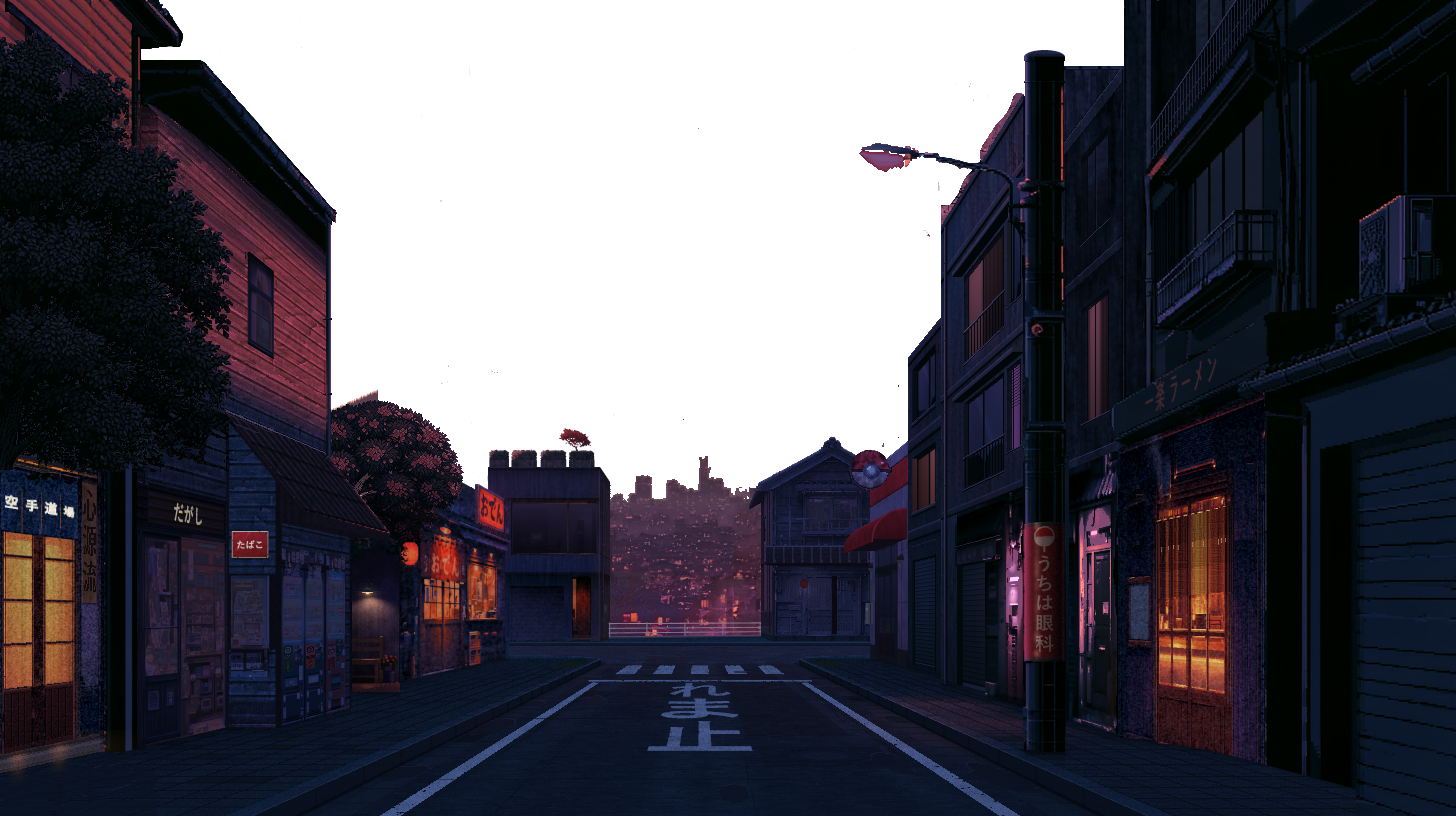
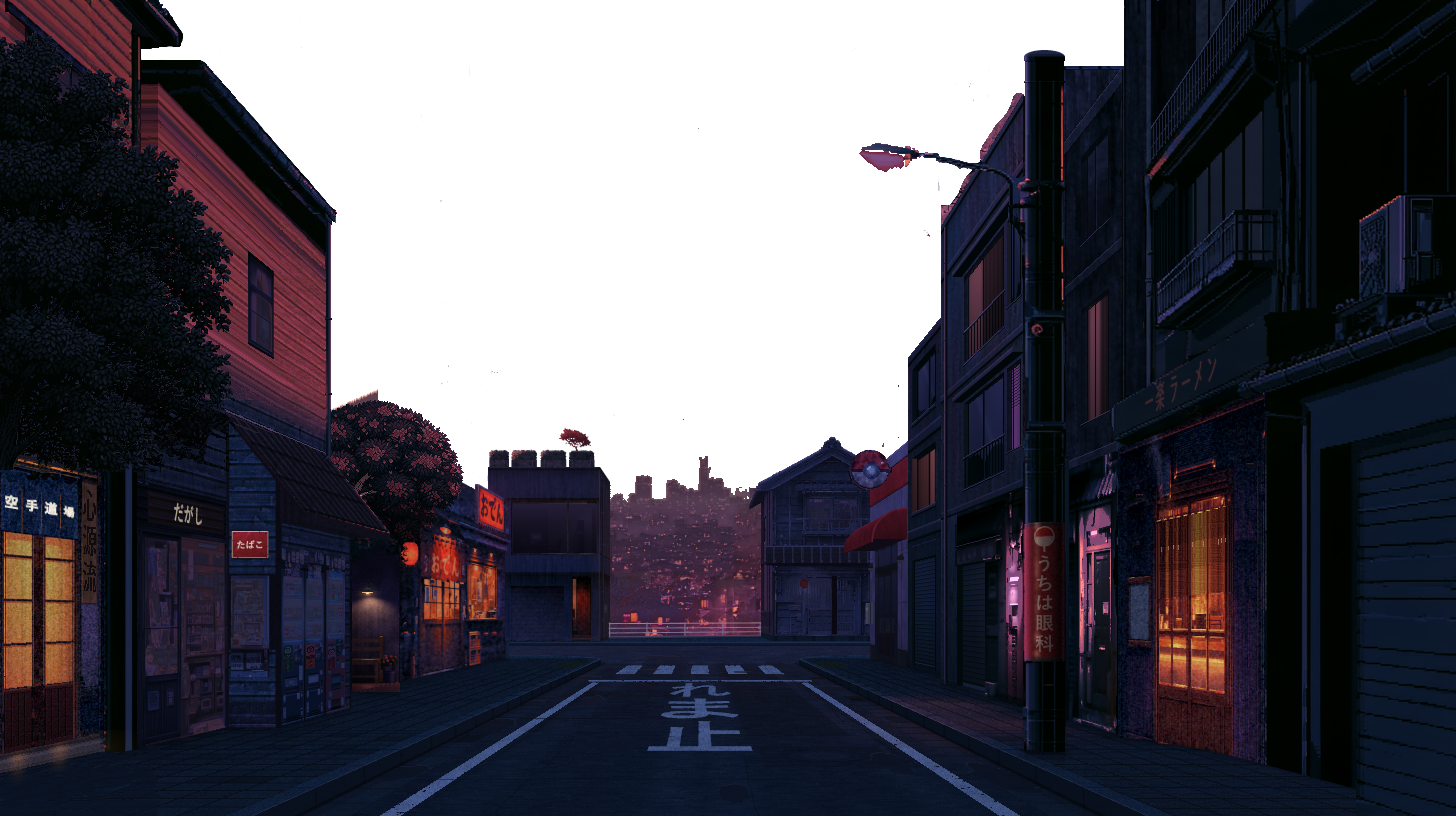
fix(street): redo Kirua facade in a single perspective
Redo Kirua's facade in one perspective (that of its gutter and the
painter's planks), up to the gutter with no black triangle; flat gable
at the facade's depth; floating leaf tuft removed.

Changed region(s): [[0.0927, 0.0919, 0.2473, 0.4902]]

diff --git a/tools/kirua_house_side.py b/tools/kirua_house_side.py
@@ -1,23 +1,28 @@
 #!/usr/bin/env python3
-"""Between the dojo's house and Kirua's: their shared downpipe back, Kirua's house's end wall, its boards cleaned.
+"""Between the dojo's house and Kirua's: their shared downpipe back, Kirua's house's end wall, its front in one perspective.
 
-    python3 tools/kirua_house_side.py      (after tools/dojo_window.py; it takes its zone back from commit BEFORE each time,
-                                            so it can be run again)
+    python3 tools/kirua_house_side.py      (after tools/dojo_window.py; it takes its zones back from commit BEFORE each
+                                            time, so it can be run again)
 
 The painter had, where the two houses meet, the dojo's house's corner in shadow (x 130..136) and the downpipe both roofs
 drain into (x 137..140, from under the upper eave); boards redrawn over the wall had covered them (they ran out into the
 sky between the two roofs). They are his again (JUNCTION, from OLD), in each layer, the new tree's leaves still in front.
 
-Kirua's house stands out from the dojo's toward the street, its roof's end square to us: under that end its end wall
-shows (SIDE, x 141..157), its front corner at x 158. Its boards are the front's, round the corner: each row the board
-that meets the corner there, its grain the front's along that board (mirrored across the corner), horizontal since that
-wall faces us; in the shade, the sunset being down the street (darkest in the inner corner, lighter toward the front
-corner, and under the roof's end), and no sunset on it (street_sun 0).
+Kirua's front runs to its own vanishing point (FVP: where its eave and the painter's own boards right of the small window
+meet, a little under the street's). Left of that window its boards had been redrawn toward the street's (VP), across
+his: they are his again, each pixel the painter's board on its own ray to FVP, taken from his boards right of the window
+(SRC_X, his stains of old foliage taken off first: a pixel much darker or lighter than the median along its ray nearby
+takes that median), the board a whole number of boards over (FRONT_DTHETA) where its ray finds none. The front goes up
+to under the eave (FRONT_TOP, the owner's line, on a ray to FVP, so the dark band under the gutter keeps one width):
+where the eave's shadow had left a black wedge, the boards a whole number of boards below, the same shift all along
+(a little darker against the eave). Leaves that the black hid, alone in the air over the crown, go with it.
 
-Its front, by the small window (BLOTCH): the old foliage's shadows had left dark stains and a black bar on the boards
-(they run on the rays to the street's vanishing point VP, each the same board all along its ray). A pixel much darker than
-its own board nearby, or much lighter (the median along its ray, within REACH columns, the window and the leaves left
-out) takes that median, in each layer. In layer_city_off, street_unlit, night_far (0, the street's) and street_sun. Needs git, Pillow, numpy.
+Under its roof's end its end wall shows (SIDE, x 141..157, from SIDE_TOP), its front corner at x 158, as deep as its
+front: its boards the front's, round the corner (each row the board that meets the corner there, its grain the front's
+along that board, mirrored across the corner, horizontal since that wall faces us), one shade all over (the sunset being
+down the street), no sunset on it (street_sun 0). Each pixel taken in each layer from the same place (street_unlit,
+street_sun: so the power cut and the hours read it as the boards it comes from); night_far 0 (the street's). Needs git,
+Pillow, numpy.
 """
 import io
 import os
@@ -29,16 +34,23 @@ ROOT = os.path.dirname(os.path.dirname(os.path.abspath(__file__)))
 A = lambda p: os.path.join(ROOT, 'assets', p)
 OLD, TREE = '8d4ca3c^', '8d4ca3c'    # (the painter's, before the tree in front of the dojo was changed; the tree's change)
 BEFORE = 'acfeeca'                   # (the layers before this tool: its zones taken back from there each run)
-ZONE = (100, 0, 340, 430)            # x0, y0, x1, y1: where the crown is found
+ZONE = (100, 0, 340, 440)            # x0, y0, x1, y1: where the crown is found, and this tool's zone
 JUNCTION = (129, 30, 141, 330)       # x0, y0, x1, y1: the painter's corner shadow and shared downpipe, his pixels again
 SIDE = (141, 158)                    # Kirua's house's end wall: its columns; its front corner at the second
-SIDE_FOOT = 430                      # (as far down as it goes, behind the tree)
-SHADE = (0.50, 0.68, 0.72, 6)        # its shade: in the inner corner, at the front corner; under the roof's end, over that many rows
-BLOTCH = (186, 182, 322, 300)        # x0, y0, x1, y1: the front's stained boards by the small window
-WINDOW = (245, 252, 277, 358)        # (the small window and its frame, left out)
-REACH, OFF, PASSES = 14, 0.16, 2                # (its board nearby: this many columns either way; a stain: darker or lighter than it by this)
+SIDE_TOP, SIDE_FOOT = 84, 430        # (from under its roof's end, as far down as it goes behind the tree)
+SIDE_F = 0.66                        # its shade: one tone all over (a flat wall, as deep as the front)
+FVP = (718.0, 669.0)                 # Kirua's front's vanishing point (its eave's and the painter's boards')
+FRONT_TOP = (162, 86)                # its front's top, under the eave: the ray to FVP through this point (the owner's line)
+FRONT_X = (158, 325)                 # (its columns, the downpipe past them)
+SRC_X = (278, 325)                   # the painter's own boards, right of the small window
+FRONT_FOOT = 430                     # (as far down as its front is rebuilt, behind the tree)
+FRONT_DTHETA = 0.0171                # its boards' spacing seen from FVP (rad)
+EAVE_SHADE = (0.72, 3)               # (the eave's shadow on its top: this dark against the eave, gone over that many rows)
+WINDOW = (246, 250, 278, 360)        # (the small window's box: its frame and glass in it left as they are)
+REACH, OFF, PASSES = 14, 0.16, 2     # (a stain: darker or lighter by this than the median along its ray, this many columns either way)
+TUFT, CLEAR = 800, 135               # (a tuft of leaves alone in the air: fewer pixels than this, over this row)
+STAIN_Y = 400                        # (black stains on the front taken off above this row: the awning's roof below)
 LEAF = 45
-VP = (725.0, 625.0)
 LUM = np.array([0.299, 0.587, 0.114])
 
 
@@ -51,8 +63,8 @@ def save(arr, p, mode):
     Image.fromarray(np.clip(np.round(arr), 0, 255).astype(np.uint8), mode).save(A(p), 'WEBP', lossless=True, quality=100, method=6, exact=True)
 
 
-def ray(y, x_from, x_to):
-    return VP[1] + (y - VP[1]) * (VP[0] - x_to) / (VP[0] - x_from)
+def fray(y, x_from, x_to):                                                   # (the row at x_to of the ray to FVP through (x_from, y))
+    return FVP[1] + (y - FVP[1]) * (FVP[0] - x_to) / (FVP[0] - x_from)
 
 
 def grow(m, n=1):
@@ -72,21 +84,26 @@ def flood(ok, seeds):
 
 def main():
     names = (('layer_city_off.webp', 'RGBA'), ('street_unlit.webp', 'RGBA'), ('night_far.webp', 'RGB'), ('street_sun.webp', 'RGB'))
-    L = [load(n, m) for n, m in names]; O = [load(n, m, OLD) for n, m in names]
-    B = [load(n, m, BEFORE) for n, m in names]
-    for bx in ((SIDE[0], 0, SIDE[1], SIDE_FOOT), BLOTCH):                   # (this tool's zones as they were before it)
-        for l, b in zip(L, B): l[bx[1]:bx[3], bx[0]:bx[2]] = b[bx[1]:bx[3], bx[0]:bx[2]]
+    L = [load(n, m) for n, m in names]; O = [load(n, m, OLD) for n, m in names]; B = [load(n, m, BEFORE) for n, m in names]
+    x0, y0, x1, y1 = ZONE
+    for l, b in zip(L, B): l[y0:y1, SIDE[0]:x1] = b[y0:y1, SIDE[0]:x1]       # (this tool's zone as it was before it)
     city = L[0]; H, W = city.shape[:2]
 
     # the new tree's leaves (the dark pixels its change put there, joined to the crown through runs of three, and the
     # dark ones close to them): they stay in front of everything here
-    x0, y0, x1, y1 = ZONE
     o, t = load('layer_city_off.webp', 'RGBA', OLD)[y0:y1, x0:x1], load('layer_city_off.webp', 'RGBA', TREE)[y0:y1, x0:x1]
     still = np.abs(city[y0:y1, x0:x1] - t).sum(2) == 0
     dark = (np.abs(o - t).sum(2) > 0) & still & (t[..., :3] @ LUM < LEAF)
     core = dark & np.roll(dark, 1, 1) & np.roll(dark, -1, 1)
     leaf = grow(flood(core, [(y1 - y0 - 1, x) for x in range(x1 - x0)])) & dark
     front = np.zeros((H, W), bool); front[y0:y1, x0:x1] = leaf | (grow(leaf, 2) & dark)
+    wx0, wy0, wx1, wy1 = WINDOW                                             # (the small window: its frame and glass, the navy and
+    navy = np.zeros((H, W), bool)                                           # violet joined to its middle, inside its box)
+    navy[wy0:wy1, wx0:wx1] = city[wy0:wy1, wx0:wx1, 2] >= city[wy0:wy1, wx0:wx1, 0] - 4
+    win = flood(navy, [((wy0 + wy1) // 2, (wx0 + wx1) // 2)])
+    box = np.zeros((H, W), bool); box[wy0:wy1, wx0:wx1] = True               # (and whatever its frame encloses: the curtain's
+    out = flood(box & ~win, [(y, x) for y in range(wy0, wy1) for x in (wx0, wx1 - 1)] + [(y, x) for x in range(wx0, wx1) for y in (wy0, wy1 - 1)])
+    win = box & ~out                                                        # light in the glass is the window's)
 
     # the junction: the painter's corner shadow and shared downpipe
     jx0, jy0, jx1, jy1 = JUNCTION
@@ -97,47 +114,99 @@ def main():
             for l, ol in zip(L, O): l[y, x] = ol[y, x]
             n_j += 1
 
-    # Kirua's house's end wall, under its roof's end (the roof's foot over each column: its last dark pixel from the top)
-    sx0, sx1 = SIDE
-    s0, s1, s2, sn = SHADE
-    n_s = 0
-    for x in range(sx0, sx1):
-        top = next(y for y in range(62, 200) if city[y, x, 3] == 255 and city[y, x, 0] > city[y, x, 2] + 2)   # (the first board under it)
-        d = sx1 - x                                                          # (its distance from the front corner)
-        f = s0 + (s1 - s0) * (1 - (d - 1) / (sx1 - sx0 - 1))                 # (darker toward the inner corner)
-        for y in range(top, SIDE_FOOT):
-            if front[y, x]: continue
-            for k in range(d, d + 40):                                       # (its board: the one meeting the corner on this row;
-                xs = sx1 + k; ys = int(round(ray(y, sx1, xs)))               # its grain the front's along that board, mirrored
-                if not front[ys, xs] and city[ys, xs, 3] == 255: break       # across the corner, past any leaf)
-            g = f * (s2 + (1 - s2) * min(1.0, (y - top) / sn))               # (under the roof's end, darker still)
-            for l in L[:2]: l[y, x, :3] = l[ys, xs, :3] * g; l[y, x, 3] = 255
-            L[2][y, x] = 0; L[3][y, x] = 0
-            n_s += 1
+    def board(x, y):                                                         # (a lit board of the front, as it stands)
+        return 0 <= y < H and city[y, x, 3] == 255 and city[y, x, :3] @ LUM >= 30 and city[y, x, 0] > city[y, x, 2] \
+            and not front[y, x] and not win[y, x]
+    top = {x: int(np.ceil(fray(FRONT_TOP[1], FRONT_TOP[0], x))) for x in range(*FRONT_X)}
+    lit = {x: next(y for y in range(top[x], H) if all(board(x, y + i) for i in range(4))) for x in range(*SRC_X)}
 
-    # its front by the small window: stains off, each pixel against its own board nearby
-    bx0, by0, bx1, by1 = BLOTCH
-    wx0, wy0, wx1, wy1 = WINDOW
-    def facade(x, y):
-        return (0 <= y < H and 0 <= x < W and not front[y, x] and city[y, x, 3] == 255 and not (wx0 <= x < wx1 and wy0 <= y < wy1)
-                and city[y, x, 0] > city[y, x, 2] - 6)
+    # the painter's boards right of the window: his stains of old foliage off, each against its own board nearby
     n_b = 0
     for _ in range(PASSES):
         src = [l.copy() for l in L]
-        for x in range(bx0, bx1):
-            for y in range(by0, by1):
-                if not facade(x, y) and not (src[0][y, x, :3] @ LUM < 30 and not front[y, x] and not (wx0 <= x < wx1 and wy0 <= y < wy1)): continue
-                pts = [(int(round(ray(y, x, xx))), xx) for xx in range(x - REACH, x + REACH + 1) if xx != x]
-                pts = [(yy, xx) for yy, xx in pts if facade(xx, yy)]
+        for x in range(*SRC_X):
+            for y in range(lit[x], FRONT_FOOT):
+                if not board(x, y) and not (src[0][y, x, :3] @ LUM < 30 and not front[y, x] and not win[y, x]): continue
+                pts = [(int(round(fray(y, x, xx))), xx) for xx in range(x - REACH, x + REACH + 1) if xx != x and xx < SRC_X[1]]
+                pts = [(yy, xx) for yy, xx in pts if board(xx, yy)]
                 if len(pts) < 6: continue
                 med = np.median([src[0][p][:3] for p in pts], 0)
                 if abs(src[0][y, x, :3] @ LUM - med @ LUM) > OFF * (med @ LUM):
-                    for k, l in enumerate(L):
-                        l[y, x] = np.median([src[k][p] for p in pts], 0)
+                    for k, l in enumerate(L): l[y, x] = np.median([src[k][p] for p in pts], 0)
                     n_b += 1
 
+    # leaves the eave's black hid, alone in the air over the crown: they go with the black
+    above = np.zeros((H, W), bool)
+    for x in range(*FRONT_X): above[top[x]:CLEAR, x] = True
+    above[SIDE_TOP:CLEAR, SIDE[0]:SIDE[1]] = True
+    held = front.copy()
+    for x in range(*FRONT_X): held[:top[x], x] = False
+    held[:SIDE_TOP, SIDE[0]:SIDE[1]] = False
+    seen = np.zeros((H, W), bool)
+    for y, x in zip(*np.where(front & above)):
+        if seen[y, x]: continue
+        comp = flood(held, [(y, x)]); seen |= comp
+        if comp.sum() < TUFT: front &= ~comp
+
+    # over the painter's boards right of the window, up to the owner's line: his boards a whole number of boards below,
+    # one shift for all of it
+    th = lambda x, y: np.arctan2(y - FVP[1], x - FVP[0])
+    K = max(int(np.ceil((th(x, top[x]) - th(x, lit[x] + 2)) / FRONT_DTHETA)) for x in range(*SRC_X))
+    src = [l.copy() for l in L]
+    good = np.zeros((H, W), bool)
+    for x in range(*SRC_X):
+        for y in range(lit[x], FRONT_FOOT): good[y, x] = board(x, y)
+    n_f = 0
+    def take(x, y, ys, xs, g=1.0):
+        for k in (0, 1): L[k][y, x, :3] = src[k][ys, xs, :3] * g; L[k][y, x, 3] = 255
+        L[2][y, x] = 0; L[3][y, x] = src[3][ys, xs]
+    for x in range(*SRC_X):
+        for y in range(top[x], lit[x]):
+            if front[y, x]: continue
+            for k in [K - j for j in range(K)] + [K + j for j in range(1, 12)]:
+                ys = int(round(FVP[1] + np.tan(th(x, y) - k * FRONT_DTHETA) * (x - FVP[0])))
+                if 0 <= ys < H and good[ys, x]: break
+            else: continue
+            take(x, y, ys, x, EAVE_SHADE[0] + (1 - EAVE_SHADE[0]) * min(1.0, (y - top[x]) / EAVE_SHADE[1]))
+            good[y, x] = True; n_f += 1
+    src = [l.copy() for l in L]
+
+    # left of the window and over it: each pixel the painter's board on its own ray to FVP (the same board along it), or
+    # where that ray finds none, the board a whole number of boards over
+    for x in range(FRONT_X[0], SRC_X[0]):
+        first = next((y for y in range(top[x], H) if all(board(x, y + i) for i in range(4))), top[x])   # (its boards as they stood)
+        for y in range(top[x], FRONT_FOOT):
+            if front[y, x] or win[y, x]: continue
+            if y >= first and not (city[y, x, 3] == 255 and (city[y, x, 0] >= city[y, x, 2] or (y < STAIN_Y and city[y, x, :3] @ LUM < 35))):
+                continue                                                     # (the front's, its black stains too, nothing else)
+            got = None
+            for k in [0] + [s * j for j in range(1, 12) for s in (1, -1)]:
+                a = th(x, y) - k * FRONT_DTHETA
+                for xs in range(*SRC_X):
+                    ys = int(round(FVP[1] + np.tan(a) * (xs - FVP[0])))
+                    if 0 <= ys < H and good[ys, xs]: got = (ys, xs); break
+                if got: break
+            if not got: continue
+            g = EAVE_SHADE[0] + (1 - EAVE_SHADE[0]) * min(1.0, (y - top[x]) / EAVE_SHADE[1])
+            take(x, y, got[0], got[1], g); n_f += 1
+
+    # Kirua's house's end wall, under its roof's end: one tone all over, as deep as its front
+    sx0, sx1 = SIDE
+    n_s = 0
+    for x in range(sx0, sx1):
+        d = sx1 - x                                                          # (its distance from the front corner)
+        for y in range(SIDE_TOP, SIDE_FOOT):
+            if front[y, x]: continue
+            for k in range(d, d + 60):                                       # (its board: the one meeting the corner on this row;
+                xs = sx1 + k; ys = int(round(fray(y, sx1, xs)))              # its grain the front's along that board, mirrored
+                if board(xs, ys): break                                      # across the corner, past any leaf)
+            else: continue
+            for l in L[:2]: l[y, x, :3] = l[ys, xs, :3] * SIDE_F; l[y, x, 3] = 255
+            L[2][y, x] = 0; L[3][y, x] = 0
+            n_s += 1
+
     for (n, m), l in zip(names, L): save(l, n, m)
-    print('junction', n_j, 'px | end wall', n_s, 'px | stains', n_b, 'px')
+    print('junction', n_j, 'px | front', n_f, 'px rebuilt (FVP', FVP, ', K', K, ') | stains', n_b, 'px | end wall', n_s, 'px')
 
 
 if __name__ == '__main__':

diff --git a/README.md b/README.md
@@ -23,7 +23,7 @@ tools/left_tree_trim.py  abaisse l'arbre de gauche sous le toit de l'oden (sa pr
 tools/cherry_gaps.py     voile les petits trous du cerisier (fuji_tree.webp) : le soir identique, plus de pois bleus le matin ni de taches la nuit
 tools/night_far_clean.py nettoie night_far.webp (pixels de la rue mis à tort dans un plan lointain : lampadaire, bord du feuillage, barrière)
 tools/dojo_window.py     le mur du haut au-dessus du dojo : tout en planches, et derrière l'arbre la fenêtre entière de la référence (tools/src/dojo_window_ref.png : son petit toit, son cadre, ses vitres, son garde-corps) posée sur les fuyantes du mur, son petit toit en volume et son ombre, sa lumière en sprite (assets/win_dojo.webp)
-tools/kirua_house_side.py entre la maison du dojo et celle de Kirua : la descente commune et l'angle d'ombre du peintre remis, le pignon de la maison de Kirua (planches qui tournent l'angle, à l'ombre), les taches de l'ancien feuillage retirées de sa façade près de la petite fenêtre
+tools/kirua_house_side.py entre la maison du dojo et celle de Kirua : la descente commune et l'angle d'ombre du peintre remis ; la façade de Kirua dans sa propre perspective (son point de fuite, celui de sa gouttière et des planches du peintre), montée jusque sous la gouttière, les taches de l'ancien feuillage retirées ; son pignon visible, à plat, planches qui tournent l'angle
 tools/kirua_gutter.py    la descente de la gouttière sous Kirua : boîte de collecte, col de cygne, tuyau contre l'angle, colliers, dauphin sur le toit bas, au métal de la gouttière dans chaque calque
 tools/pole_cut.py        raccourcit le poteau de droite sous son transformateur (retiré) : chapeau de béton, collier, fût recopié du sien ; son occultation (COCC) depuis son sommet
 cv.pdf                  CV
